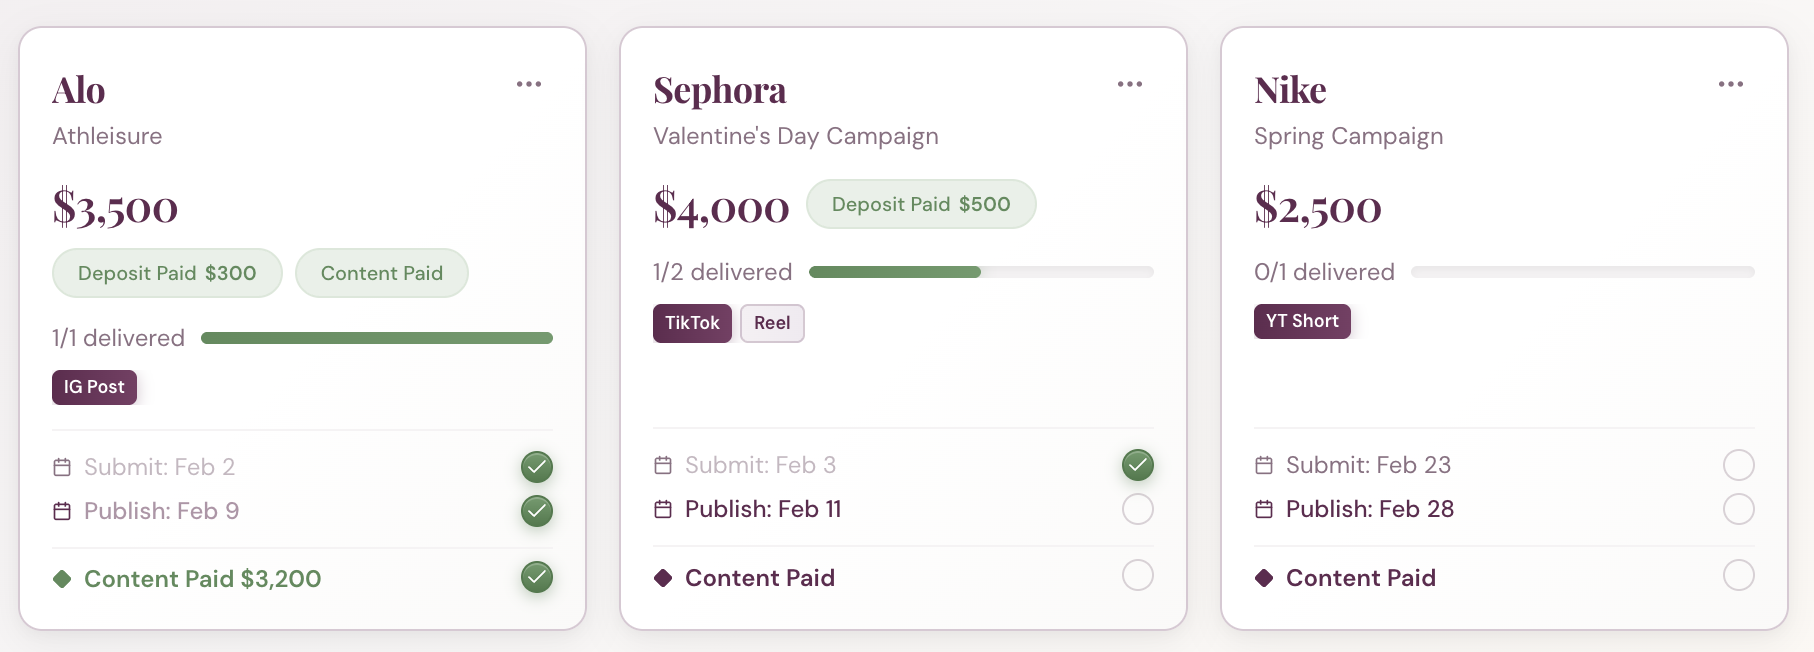
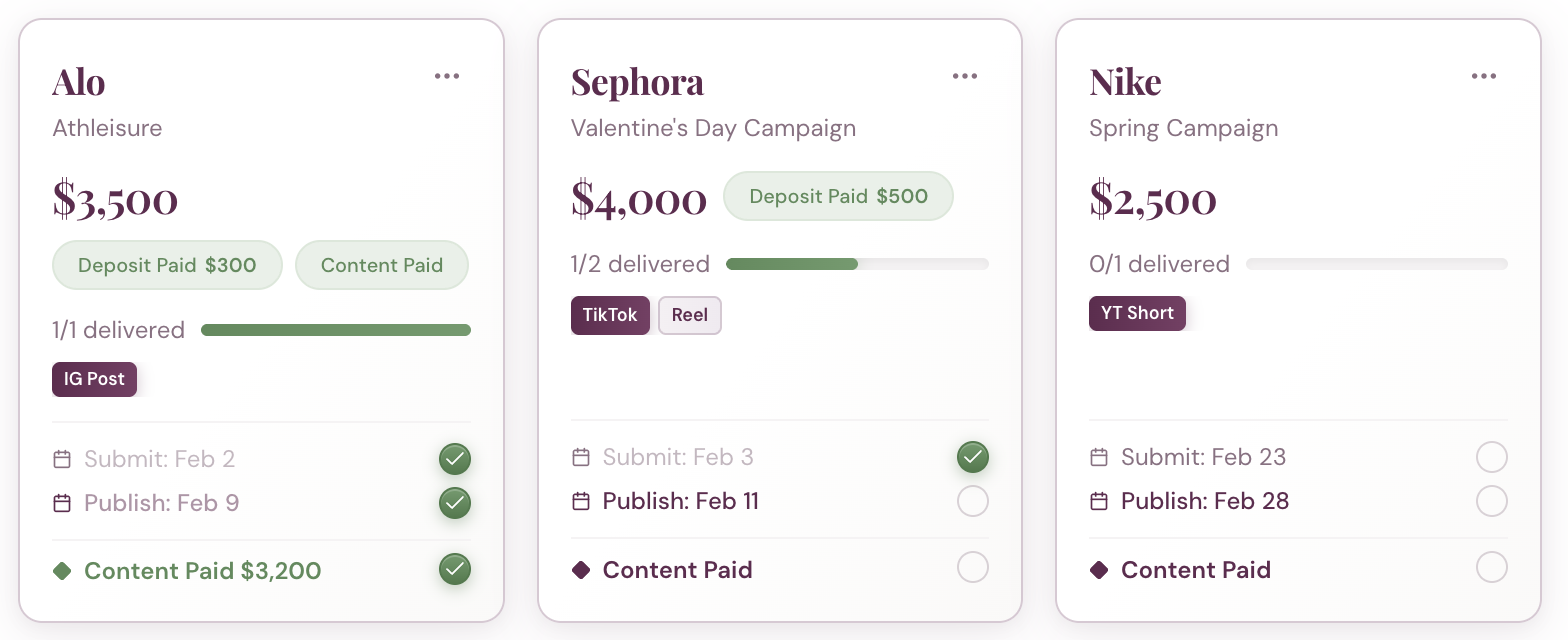
Update deal card screenshots and remove card shadows
- Replace stats-row and deal-cards images with white background versions
- Remove shadows from stat cards and deal cards on partnerships page

diff --git a/src/pages/Brands.tsx b/src/pages/Brands.tsx
@@ -556,7 +556,7 @@ const Brands = () => {
 
             {/* Dashboard Summary */}
             <div className="grid grid-cols-2 lg:grid-cols-4 gap-3 sm:gap-5 mb-8 sm:mb-10">
-              <Card className="group p-4 sm:p-6 bg-white border border-[#D8C8D3] rounded-xl sm:rounded-2xl shadow-[0_4px_16px_rgba(0,0,0,0.05),0_1px_4px_rgba(0,0,0,0.03)]">
+              <Card className="group p-4 sm:p-6 bg-white border border-[#D8C8D3] rounded-xl sm:rounded-2xl shadow-none">
                 <div className="flex items-center gap-1.5 sm:gap-2 mb-2 sm:mb-3">
                   <Wallet className="w-3.5 sm:w-4 h-3.5 sm:h-4 text-[#8B7082]" strokeWidth={1.5} />
                   <p className="text-[9px] sm:text-[10px] text-[#8B7082] font-medium uppercase tracking-[0.08em] truncate">
@@ -567,7 +567,7 @@ const Brands = () => {
                   ${isYearView ? metrics.yearlyEarnings.toLocaleString() : metrics.monthlyEarnings.toLocaleString()}
                 </p>
               </Card>
-              <Card className="group p-4 sm:p-6 bg-white border border-[#D8C8D3] rounded-xl sm:rounded-2xl shadow-[0_4px_16px_rgba(0,0,0,0.05),0_1px_4px_rgba(0,0,0,0.03)]">
+              <Card className="group p-4 sm:p-6 bg-white border border-[#D8C8D3] rounded-xl sm:rounded-2xl shadow-none">
                 <div className="flex items-center gap-1.5 sm:gap-2 mb-2 sm:mb-3">
                   <ArrowUpRight className="w-3.5 sm:w-4 h-3.5 sm:h-4 text-[#8B7082]" />
                   <p className="text-[9px] sm:text-[10px] text-[#8B7082] font-medium uppercase tracking-[0.08em] truncate">
@@ -578,14 +578,14 @@ const Brands = () => {
                   {isYearView ? filteredDeals.length : `$${metrics.yearlyEarnings.toLocaleString()}`}
                 </p>
               </Card>
-              <Card className="group p-4 sm:p-6 bg-white border border-[#D8C8D3] rounded-xl sm:rounded-2xl shadow-[0_4px_16px_rgba(0,0,0,0.05),0_1px_4px_rgba(0,0,0,0.03)]">
+              <Card className="group p-4 sm:p-6 bg-white border border-[#D8C8D3] rounded-xl sm:rounded-2xl shadow-none">
                 <div className="flex items-center gap-1.5 sm:gap-2 mb-2 sm:mb-3">
                   <Clock className="w-3.5 sm:w-4 h-3.5 sm:h-4 text-[#8B7082]" strokeWidth={1.5} />
                   <p className="text-[9px] sm:text-[10px] text-[#8B7082] font-medium uppercase tracking-[0.08em] truncate">EXPECTED</p>
                 </div>
                 <p className="text-xl sm:text-[32px] font-normal text-[#612a4f] tracking-[-0.02em] leading-none" style={{ fontFamily: "'Playfair Display', serif" }}>${metrics.pendingAmount.toLocaleString()}</p>
               </Card>
-              <Card className="group p-4 sm:p-6 bg-white border border-[#D8C8D3] rounded-xl sm:rounded-2xl shadow-[0_4px_16px_rgba(0,0,0,0.05),0_1px_4px_rgba(0,0,0,0.03)]">
+              <Card className="group p-4 sm:p-6 bg-white border border-[#D8C8D3] rounded-xl sm:rounded-2xl shadow-none">
                 <div className="flex items-center gap-1.5 sm:gap-2 mb-2 sm:mb-3">
                   <svg className="w-3.5 sm:w-4 h-3.5 sm:h-4 text-[#8B7082]" viewBox="0 0 24 24" fill="currentColor" fillOpacity="0.2" stroke="currentColor" strokeWidth="1.5"><path d="M12 2L14.5 9.5L22 12L14.5 14.5L12 22L9.5 14.5L2 12L9.5 9.5L12 2Z" /></svg>
                   <p className="text-[9px] sm:text-[10px] text-[#8B7082] font-medium uppercase tracking-[0.08em] truncate">ACTIVE DEALS</p>
@@ -923,7 +923,7 @@ const DealCard = ({ deal, selectedMonth, isYearView, showArchived, onDragStart, 
       draggable
       onDragStart={() => onDragStart(deal.id)}
       onClick={() => onEdit(deal)}
-      className="group bg-gradient-to-br from-white via-white to-[#FAF9F8] rounded-xl p-3 sm:p-4 shadow-[0_6px_20px_rgba(0,0,0,0.06),0_2px_6px_rgba(0,0,0,0.03)] border border-[#D8C8D3] cursor-pointer hover:shadow-[0_8px_24px_rgba(0,0,0,0.08),0_3px_8px_rgba(0,0,0,0.04)] transition-shadow duration-200 min-h-[260px] sm:min-h-[300px] flex flex-col"
+      className="group bg-gradient-to-br from-white via-white to-[#FAF9F8] rounded-xl p-3 sm:p-4 shadow-none border border-[#D8C8D3] cursor-pointer hover:shadow-[0_8px_24px_rgba(0,0,0,0.08),0_3px_8px_rgba(0,0,0,0.04)] transition-shadow duration-200 min-h-[260px] sm:min-h-[300px] flex flex-col"
       style={{ fontFamily: "'DM Sans', sans-serif" }}
     >
       <div className="flex items-start justify-between mb-3">
